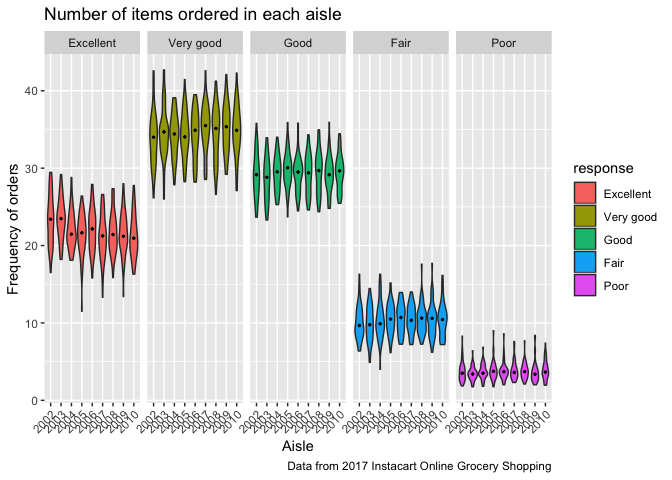
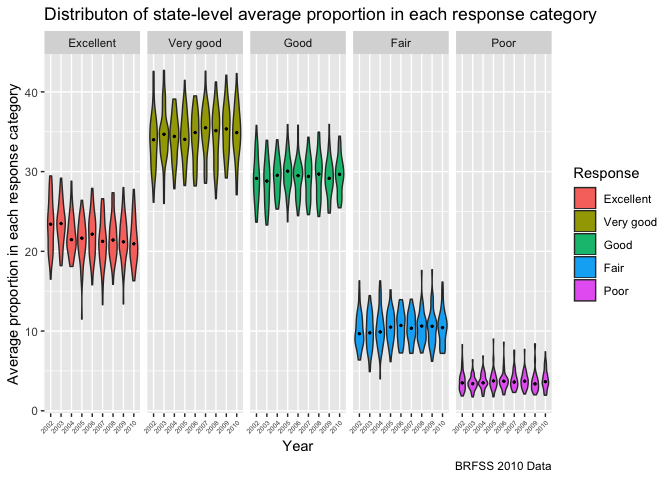
still describng output

diff --git a/p8105_hw3_ykk2116.md b/p8105_hw3_ykk2116.md
@@ -46,7 +46,7 @@ library(p8105.datasets)
 data(brfss_smart2010)
 ```
 
-*Cleaning of dataset and selection of variables*
+*Cleaning of BRFSS dataset and selection of variables*
 
 ``` r
 brfss_df = janitor::clean_names(dat = brfss_smart2010) %>%
@@ -54,9 +54,7 @@ brfss_df = janitor::clean_names(dat = brfss_smart2010) %>%
   mutate(response = forcats::fct_relevel(response, c("Excellent", "Very good", "Good", "Fair", "Poor")))
 ```
 
-select(-(class:question), -sample\_size,
--(confidence\_limit\_low:geo\_location)) %\>% *States that were observed
-at 7 locations*
+*States that were observed at 7 locations*
 
 ``` r
 brfss_df %>%
@@ -65,7 +63,7 @@ brfss_df %>%
   distinct(locationdesc) %>%
   summarise(n = n()) %>%
   filter( n == 7) %>%
-  knitr::kable()
+  knitr::kable(digits = 2)
 ```
 
 | locationabbr | n |
@@ -74,7 +72,11 @@ brfss_df %>%
 | FL           | 7 |
 | NC           | 7 |
 
-*Spaghetti plot* number of locations in each state
+\*\* According to the table above, in 2002, the states of CT, FL, NC
+were observed at 7 locations.\*\*
+
+*Spaghetti plot that shows the number of locations in each state from
+2002 to 2010*
 
 ``` r
 brfss_df %>%
@@ -83,6 +85,7 @@ brfss_df %>%
   summarise(number_of_locations = n()) %>%
   ggplot(aes(x = year, y = number_of_locations, color = locationabbr)) +
   geom_line() +
+scale_x_continuous(breaks = c(2002, 2003, 2004, 2005, 2006, 2007, 2008, 2009, 2010)) +
 labs(
   title = "Spaghetti Plot",
   x = "Year",
@@ -93,15 +96,15 @@ labs(
 
 ![](p8105_hw3_ykk2116_files/figure-gfm/unnamed-chunk-5-1.png)<!-- -->
 
-``` r
-scale_x_continuous(breaks = c(2002, 2003, 2004, 2005, 2006, 2007, 2008, 2009, 2010))
-```
+**Looking at the plot above, we can see that majority of the states
+showed a similar trend in the number of locations across all the years.
+However, for one of the states, there was a huge spike or increase from
+2006 to 2007 and it decreased again in 2008. However there was another
+increase from 2009 to 2010. The particular state is hard to identify as
+it is.**
 
-    ## <ScaleContinuousPosition>
-    ##  Range:  
-    ##  Limits:    0 --    1
-
-*Making of Table*
+*Table that shows the mean and standard deviation of the “excellent”
+responses across locations in NY state for 2002, 2006 and 2010*
 
 ``` r
 brfss_df %>%
@@ -113,14 +116,24 @@ brfss_df %>%
   summarise(n = n(),
         mean = mean(excellent, na.rm = TRUE),
         sd = sd(excellent, na.rm = TRUE)) %>%
-  knitr::kable()
+  knitr::kable(digits = 2)
 ```
 
-| locationabbr | year |  n |     mean |       sd |
-| :----------- | ---: | -: | -------: | -------: |
-| NY           | 2002 | 25 | 24.04000 | 4.486424 |
-| NY           | 2006 | 30 | 22.53333 | 4.000833 |
-| NY           | 2010 | 45 | 22.70000 | 3.567212 |
+| locationabbr | year |  n |  mean |   sd |
+| :----------- | ---: | -: | ----: | ---: |
+| NY           | 2002 | 25 | 24.04 | 4.49 |
+| NY           | 2006 | 30 | 22.53 | 4.00 |
+| NY           | 2010 | 45 | 22.70 | 3.57 |
+
+**In the table above, we can see that the number of variables (N)
+increased through 2002 to 2010; from 25 in 2002, 30 in 2006 and to 45 in
+2010. The mean in 2002 was different from the means in 2006 and 2010;
+the mean for 2006 and 2010 were similar. The standard deviation was
+highest in 2002 and it was lower in 2006 and lowest in 2010.**
+
+*A five-panel violin plot that shows, for each response category
+separately, the distribution of state-level averages (average proportion
+in each response category) over time*
 
 ``` r
 average_brfss =
@@ -135,20 +148,20 @@ average_brfss %>%
   facet_grid(.~response) +
   stat_summary(fun.y = median, geom = "point", size = 0.5) +
   labs(
-     title = "Number of items ordered in each aisle",
-    x = "Aisle",
-    y = "Frequency of orders",
-    caption = "Data from 2017 Instacart Online Grocery Shopping"
+     title = "Distributon of state-level average proportion in each response category",
+    x = "Year",
+    y = "Average proportion in each response category",
+    caption = "BRFSS 2010 Data"
   ) +
-  scale_fill_discrete(name = "response") +
-  theme(axis.text.x = element_text(angle = 45, hjust = 1))
+  scale_fill_discrete(name = "Response") +
+  theme(axis.text.x = element_text(angle = 45, size = 5, hjust = 1))
 ```
 
 ![](p8105_hw3_ykk2116_files/figure-gfm/unnamed-chunk-7-1.png)<!-- -->
 
 ### Problem 2
 
-*Loading Dataset*
+*Loading Instacart Dataset*
 
 ``` r
 data("instacart")
@@ -174,7 +187,7 @@ instacart %>%
   ungroup() %>%
   top_n(5, number) %>%
   arrange(desc(number)) %>%
-  knitr::kable()
+  knitr::kable(digits = 2)
 ```
 
 | aisle\_id | aisle                      | number |
@@ -219,7 +232,7 @@ instacart %>%
   summarise(number = n()) %>%
   top_n(1, number) %>%
   arrange(desc(number)) %>%
-  knitr::kable()
+  knitr::kable(digits = 2)
 ```
 
 | aisle                      | product\_name                                 | number |
@@ -237,13 +250,13 @@ instacart %>%
 group_by(order_dow, product_name) %>% 
   summarise(mean_hour = mean(order_hour_of_day)) %>% 
   spread(key = order_dow, value = mean_hour) %>% 
-  knitr::kable()
+  knitr::kable(digits = 2)
 ```
 
-| product\_name    |        0 |        1 |        2 |        3 |        4 |        5 |        6 |
-| :--------------- | -------: | -------: | -------: | -------: | -------: | -------: | -------: |
-| Coffee Ice Cream | 13.77419 | 14.31579 | 15.38095 | 15.31818 | 15.21739 | 12.26316 | 13.83333 |
-| Pink Lady Apples | 13.44118 | 11.36000 | 11.70213 | 14.25000 | 11.55172 | 12.78431 | 11.93750 |
+| product\_name    |     0 |     1 |     2 |     3 |     4 |     5 |     6 |
+| :--------------- | ----: | ----: | ----: | ----: | ----: | ----: | ----: |
+| Coffee Ice Cream | 13.77 | 14.32 | 15.38 | 15.32 | 15.22 | 12.26 | 13.83 |
+| Pink Lady Apples | 13.44 | 11.36 | 11.70 | 14.25 | 11.55 | 12.78 | 11.94 |
 
 ### Problem 3
 
